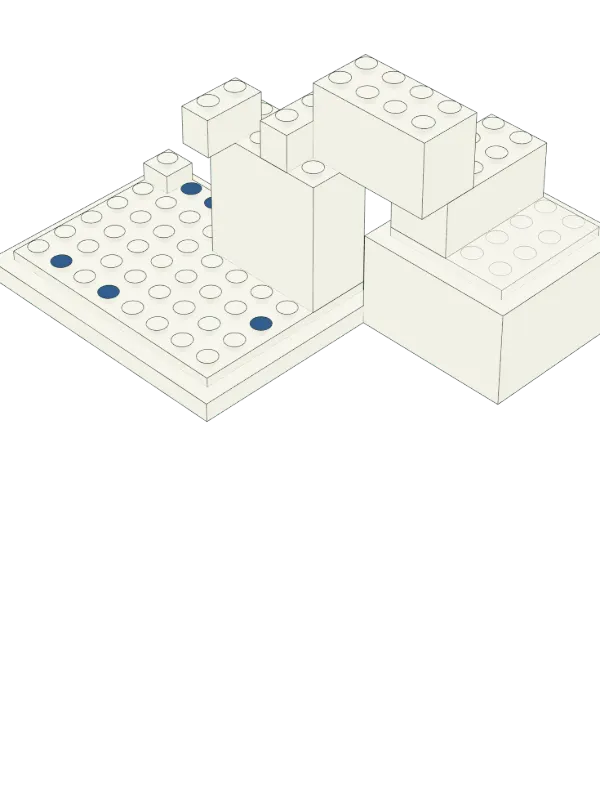
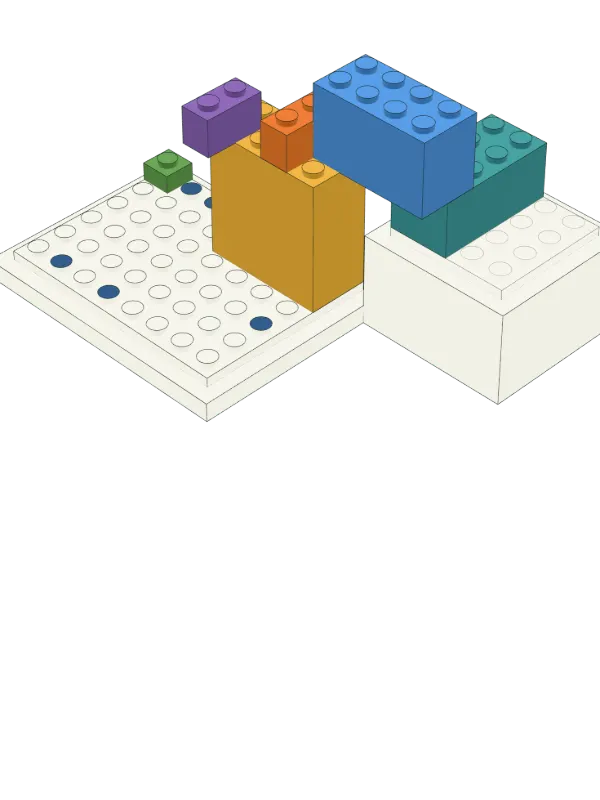
feat(atlas): the bricks in the round wear their own colours
Each of the six bricks takes a hue of its own, set on its row in
sheet2.mjs and carried by the model's parts: the cap and plain studs
in the hue, the flanks a step darker, the ringed studs and the red
location seat as before, the plates and ground still paper. The glTF
writer mints a cap and flank material per hued part. The badges take
their brick's hue as a ring, and fill with it when pinned; the pinned
line opens with a swatch; the legend's brick swatch shows three of
the hues. Sheet 2's drawing is byte-identical. Card re-photographed.

Claude-Session: https://claude.ai/code/session_01D1vGNxyKzYdyFrP83hW1Zr

Changed region(s): [[0.24, 0.0625, 0.93, 0.4062]]

diff --git a/www/atlas.lit-ui-router.dev/app/public/sheets/bricks.html b/www/atlas.lit-ui-router.dev/app/public/sheets/bricks.html
@@ -61,7 +61,7 @@
   --poster-color: transparent; --progress-bar-color: var(--accent); }
 .bk .bk-bar { border-bottom: 1.5px solid var(--ink); }
 .bk-bar .lg i.sw { display: block; width: 20px; height: 12px; border: 1.2px solid var(--ink); }
-.bk-bar .lg i.sw-brick { background: #F1F0E7; }
+.bk-bar .lg i.sw-brick { background: linear-gradient(90deg, #D8A33A, #D8A33A 33%, #5B8E4B 33%, #5B8E4B 66%, #4C86C6 66%); }
 .bk-bar .lg i.sw-stud { background: #2E5077; border-radius: 50%; width: 14px; }
 .bk-bar .lg i.sw-seat { background: #A63D2F; border-radius: 50%; width: 14px; }
 .bk-bar .lg i.sw-ghost { background: rgba(241, 240, 231, 0.45); border-style: dashed; }
@@ -69,15 +69,16 @@
 .bk-ctl .grp { display: inline-flex; gap: 6px; }
 .bk-ctl button[aria-pressed="true"] { background: var(--ink); color: var(--paper); }
 .bk-ctl input[type=range] { width: 150px; accent-color: var(--accent); }
-.bk-pin { width: 26px; height: 26px; border-radius: 50%; border: 1.5px solid var(--ink); background: var(--paper);
+.bk-pin { width: 26px; height: 26px; border-radius: 50%; border: 2px solid var(--hue, var(--ink)); background: var(--paper);
   color: var(--ink); font-family: var(--data); font-size: 12px; font-weight: 600; padding: 0; cursor: pointer;
   display: grid; place-items: center; }
-.bk-pin.on { background: var(--accent); border-color: var(--accent); color: var(--paper); }
+.bk-pin.on { background: var(--hue, var(--accent)); color: #F1F0E7; }
 .bk-pin:focus-visible { outline: 2px solid var(--accent); outline-offset: 2px; }
 .bk-read { border: 1.5px solid var(--ink); border-top: none; background: var(--paper-2); padding: 14px 22px 16px;
   min-height: 72px; color: var(--ink); }
 .bk-read h3 { font-family: var(--code); font-size: 16px; font-weight: 600; letter-spacing: 0.04em; line-height: 1.3;
   margin: 0; word-break: break-word; }
+.bk-read h3 i.sw { display: inline-block; width: 18px; height: 11px; margin-right: 8px; border: 1.2px solid var(--ink); vertical-align: baseline; }
 .bk-read h3 .n { font-family: var(--data); font-size: 11px; letter-spacing: 0.16em; color: var(--accent);
   margin-right: 10px; vertical-align: 0.12em; white-space: nowrap; }
 .bk-read .ledger { font-family: var(--data); font-size: 12px; letter-spacing: 0.08em; line-height: 1.5;
@@ -91,17 +92,17 @@
   <p class="sheet-sub"><a class="xref" data-sheet="2" href="/sheet/2">SHEET 2</a>'S FINISHED MODEL IN THE ROUND · 6 BRICKS · 2 PLATES · 2 LEVELS OF GROUND · ONE GLTF BINARY · THE SHEET'S OWN EXPLOSION AS ITS ONE CLIP, ASSEMBLE ⇄ EXPLODE · THE CAMERA TURNS TO THE SHEET'S THREE DRAWN CORNERS</p>
   <div class="bk-frame" id="bk-frame">
     <model-viewer id="bk-viewer" class="bk-view" src="/models/bricks.glb" camera-controls touch-action="pan-y" interaction-prompt="none" camera-orbit="45deg 54.736deg 88%" max-camera-orbit="Infinity 88deg auto" field-of-view="14deg" min-field-of-view="5deg" max-field-of-view="18deg" exposure="1" shadow-intensity="0" animation-name="assemble" alt="Sheet 2's finished LEGO model in three dimensions: a low slab of browser ground carries the @uirouter/core baseplate, its back rail of studs ringed in the accent colour and one red location seat; lit-ui-router stands on it as a tall two-by-four, the one-stud navigation location plugin on the location seat, lit-ui-router-mobx and lit-ui-router-effect on lit-ui-router's cap; a raised server shelf carries a translucent headless plate with ui-router-server on it, and lit-ui-router-ssr bridges from lit-ui-router's cap to ui-router-server's. The explode control lifts every brick to the height the sheet's exploded view draws it at.">
-      <button type="button" class="bk-pin" slot="hotspot-1" data-position="-0.5m 5.45m 0m" data-normal="0m 1m 0m" aria-pressed="false" aria-label="Brick 1, lit-ui-router">1</button>
-      <button type="button" class="bk-pin" slot="hotspot-2" data-position="-6m 1.85m -0.5m" data-normal="0m 1m 0m" aria-pressed="false" aria-label="Brick 2, ui-router-navigation-location-plugin">2</button>
-      <button type="button" class="bk-pin" slot="hotspot-3" data-position="0m 6.65m 0m" data-normal="0m 1m 0m" aria-pressed="false" aria-label="Brick 3, lit-ui-router-mobx">3</button>
-      <button type="button" class="bk-pin" slot="hotspot-4" data-position="3.5m 5.45m -3m" data-normal="0m 1m 0m" aria-pressed="false" aria-label="Brick 4, ui-router-server">4</button>
-      <button type="button" class="bk-pin" slot="hotspot-5" data-position="-2m 6.65m 1m" data-normal="0m 1m 0m" aria-pressed="false" aria-label="Brick 5, lit-ui-router-effect">5</button>
-      <button type="button" class="bk-pin" slot="hotspot-6" data-position="2.5m 7.85m -1m" data-normal="0m 1m 0m" aria-pressed="false" aria-label="Brick 6, lit-ui-router-ssr">6</button>
+      <button type="button" class="bk-pin" slot="hotspot-1" style="--hue:#D8A33A" data-position="-0.5m 5.45m 0m" data-normal="0m 1m 0m" aria-pressed="false" aria-label="Brick 1, lit-ui-router">1</button>
+      <button type="button" class="bk-pin" slot="hotspot-2" style="--hue:#5B8E4B" data-position="-6m 1.85m -0.5m" data-normal="0m 1m 0m" aria-pressed="false" aria-label="Brick 2, ui-router-navigation-location-plugin">2</button>
+      <button type="button" class="bk-pin" slot="hotspot-3" style="--hue:#D26E2C" data-position="0m 6.65m 0m" data-normal="0m 1m 0m" aria-pressed="false" aria-label="Brick 3, lit-ui-router-mobx">3</button>
+      <button type="button" class="bk-pin" slot="hotspot-4" style="--hue:#3E8A8B" data-position="3.5m 5.45m -3m" data-normal="0m 1m 0m" aria-pressed="false" aria-label="Brick 4, ui-router-server">4</button>
+      <button type="button" class="bk-pin" slot="hotspot-5" style="--hue:#7B5B9F" data-position="-2m 6.65m 1m" data-normal="0m 1m 0m" aria-pressed="false" aria-label="Brick 5, lit-ui-router-effect">5</button>
+      <button type="button" class="bk-pin" slot="hotspot-6" style="--hue:#4C86C6" data-position="2.5m 7.85m -1m" data-normal="0m 1m 0m" aria-pressed="false" aria-label="Brick 6, lit-ui-router-ssr">6</button>
     </model-viewer>
   </div>
   <div class="bk-bar">
     <div class="bk-legend">
-      <span class="lg"><i class="sw sw-brick"></i>a published package, as a quantized brick</span>
+      <span class="lg"><i class="sw sw-brick"></i>a published package, as a quantized brick in its own colour</span>
       <span class="lg"><i class="sw sw-stud"></i>a published extension point</span>
       <span class="lg"><i class="sw sw-seat"></i>the location seat</span>
       <span class="lg"><i class="sw sw-ghost"></i>the headless plate — an optional peer</span>
@@ -119,6 +120,6 @@
     </div>
   </div>
   <aside class="bk-read" id="bk-info" aria-live="polite"></aside>
-  <p class="bk-basis"><span><b class="k">BASIS</b>The model is <code>generator/<wbr>sheet2.mjs</code>'s own <code>MODEL</code>, the parts its finished-model band seats, written into one glTF binary by <code>generator/<wbr>brick-glb.mjs</code>: every ground, plate and brick a flat-shaded cuboid edged in ink, every stud a 24-sided cylinder on its part's cap, one node per part named by its id. One stud pitch is one unit. Each brick's lift in the <code>assemble</code> clip is the hover the sheet's exploded view draws it at, measured from its plate (brick 1 132, brick 2 116, brick 3 252, brick 4 88, brick 5 150, brick 6 160 plan units), so the explosion is the sheet's own. The numbered badges ride the bricks through the clip. Counted at origin/main @ 6d41d21e (2026-10-03); <code>@google/<wbr>model-viewer</code> 4.3.1 is fetched only when this page is entered, and the clip jumps to its end under <code>prefers-reduced-motion</code>.</span></p>
+  <p class="bk-basis"><span><b class="k">BASIS</b>The model is <code>generator/<wbr>sheet2.mjs</code>'s own <code>MODEL</code>, the parts its finished-model band seats, written into one glTF binary by <code>generator/<wbr>brick-glb.mjs</code>: every ground, plate and brick a flat-shaded cuboid edged in ink, every stud a 24-sided cylinder on its part's cap, one node per part named by its id; each brick wears its own colour, cap and plain studs in the hue and flanks a step darker, while the plates and ground stay paper. One stud pitch is one unit. Each brick's lift in the <code>assemble</code> clip is the hover the sheet's exploded view draws it at, measured from its plate (brick 1 132, brick 2 116, brick 3 252, brick 4 88, brick 5 150, brick 6 160 plan units), so the explosion is the sheet's own. The numbered badges ride the bricks through the clip. Counted at origin/main @ 6d41d21e (2026-10-03); <code>@google/<wbr>model-viewer</code> 4.3.1 is fetched only when this page is entered, and the clip jumps to its end under <code>prefers-reduced-motion</code>.</span></p>
 </section>
-<script type="application/json" id="bk-model">{"end":1.5,"bricks":[{"n":1,"name":"lit-ui-router","ver":"1.16.0","ledger":"21f · 2,605 sloc · 2×4 · 7 courses","seats":"the @uirouter/core plate","cap":[-0.5,5.45,0],"centre":[-0.5,3,0],"lift":3.3},{"n":2,"name":"ui-router-navigation-location-plugin","ver":"1.0.1","ledger":"2f · 141 sloc · 1×1 · 1 course","seats":"the @uirouter/core plate","cap":[-6,1.85,-0.5],"centre":[-6,1.2,-0.5],"lift":2.9},{"n":3,"name":"lit-ui-router-mobx","ver":"1.0.2","ledger":"5f · 176 sloc · 1×2 · 2 courses","seats":"brick 1, stud F","cap":[0,6.65,0],"centre":[0,5.7,0],"lift":6.3},{"n":4,"name":"ui-router-server","ver":"0.2.0","ledger":"9f · 1,211 sloc · 2×4 · 3 courses","seats":"the headless plate, on the server shelf","cap":[3.5,5.45,-3],"centre":[3.5,4.2,-3],"lift":2.2},{"n":5,"name":"lit-ui-router-effect","ver":"0.1.3","ledger":"5f · 213 sloc · 1×2 · 2 courses","seats":"brick 1, stud F","cap":[-2,6.65,1],"centre":[-2,5.7,1],"lift":3.75},{"n":6,"name":"lit-ui-router-ssr","ver":"0.1.1","ledger":"11f · 1,093 sloc · 2×4 · 4 courses","seats":"brick 1, stud G and brick 4, stud H","cap":[2.5,7.85,-1],"centre":[2.5,6.3,-1],"lift":4}]}</script>
+<script type="application/json" id="bk-model">{"end":1.5,"bricks":[{"n":1,"name":"lit-ui-router","ver":"1.16.0","hue":"#D8A33A","ledger":"21f · 2,605 sloc · 2×4 · 7 courses","seats":"the @uirouter/core plate","cap":[-0.5,5.45,0],"centre":[-0.5,3,0],"lift":3.3},{"n":2,"name":"ui-router-navigation-location-plugin","ver":"1.0.1","hue":"#5B8E4B","ledger":"2f · 141 sloc · 1×1 · 1 course","seats":"the @uirouter/core plate","cap":[-6,1.85,-0.5],"centre":[-6,1.2,-0.5],"lift":2.9},{"n":3,"name":"lit-ui-router-mobx","ver":"1.0.2","hue":"#D26E2C","ledger":"5f · 176 sloc · 1×2 · 2 courses","seats":"brick 1, stud F","cap":[0,6.65,0],"centre":[0,5.7,0],"lift":6.3},{"n":4,"name":"ui-router-server","ver":"0.2.0","hue":"#3E8A8B","ledger":"9f · 1,211 sloc · 2×4 · 3 courses","seats":"the headless plate, on the server shelf","cap":[3.5,5.45,-3],"centre":[3.5,4.2,-3],"lift":2.2},{"n":5,"name":"lit-ui-router-effect","ver":"0.1.3","hue":"#7B5B9F","ledger":"5f · 213 sloc · 1×2 · 2 courses","seats":"brick 1, stud F","cap":[-2,6.65,1],"centre":[-2,5.7,1],"lift":3.75},{"n":6,"name":"lit-ui-router-ssr","ver":"0.1.1","hue":"#4C86C6","ledger":"11f · 1,093 sloc · 2×4 · 4 courses","seats":"brick 1, stud G and brick 4, stud H","cap":[2.5,7.85,-1],"centre":[2.5,6.3,-1],"lift":4}]}</script>

diff --git a/www/atlas.lit-ui-router.dev/HISTORY.md b/www/atlas.lit-ui-router.dev/HISTORY.md
@@ -185,7 +185,7 @@ resolved →
 **Record notes**
 
 - 2026-10-04, REV F (census unmoved): a band under the exploded view draws the same parts seated — THE FINISHED MODEL. Three steps at the drawing's own corner (U 14): bricks 1 and 2 on the plate; bricks 3 and 5 on brick 1's cap; brick 6 bridging G to H with the second plate and brick 4. Then the whole from two more corners (U 22): the opposite one (turn 2), where brick 6 reads as a bridge and the free rail seats stay ringed, and the server side (turn 1), where the dashed plate and brick 4 stand in front with the bridge landing on H. The model stands on a landscape of two levels — a slab of browser ground one course deep under the client plate, and a server shelf under the headless plate, `GROUND + P2_UP × CRS` tall with `P2_UP = courses(1) − courses(4)`, because brick 6 seats on brick 1's cap AND brick 4's and the caps must meet; the plate's origin is the one plan point that puts stud H under the bridge (`SSR_REACH − B4_SEAT`). The band letters the two grounds (the shelf as a request runtime with no DOM, node engine read from ui-router-server's package.json, its adapters named) and that the dashed plate on it is the optional peer, reached by lazy import, while the ground is real; the key gains a ground row. The brick, plate and stud builders move to `brick-iso.mjs` as a kit at any pitch, with `seated()` (parts of kind ground, plate or brick, each standing `on` another; painter's order by axis separation, topologically sorted; covered plate studs not drawn; stud rings turn with the model) and `turnRect`/`turnStud` for the four iso corners; the exploded view draws through the same kit at U 40, unchanged but for the second plate’s studs, which take the plate’s dash as its faces always did. The sheet grows by the band (ART_H from 862 to the band's bottom + 56); the rev E clause is replaced by rev F's; the "Why bricks" paragraph says the exploded view seats nothing and the finished model is drawn seated; the index row reads "exploded, then seated". Thumb 2 re-photographed.
-- 2026-10-04, no rev clause: the finished model stands in the round as an app-only plate, `/bricks` (`atlas.bricks`, id `bricks`, SHEET 2 · 3D, REV A, THE BRICK ASSEMBLY, IN THE ROUND), filed after the plant. `sheet2.mjs` exports its `MODEL` as `BRICK_MODEL` and an `EXPLODE` map — each brick's exploded hover less its seated z0, both measured from its own plate: brick 1 132, brick 2 116, brick 3 252, brick 4 88, brick 5 150, brick 6 160 plan units — and the sheet's own drawing is byte-identical. `generator/brick-glb.mjs` writes the model as one dependency-free glTF binary, `app/public/models/bricks.glb` (6,816 triangles, about 400 KB): flat-shaded cuboids and 24-sided studs at one unit per stud pitch, ink edges as line primitives, paper caps over `--paper-2` flanks, accent caps on the ringed studs, the red location seat, the headless plate at alpha 0.45, one node per part named by its id, and one clip, `assemble`, 0 → 1.5 s, dropping each brick from seated + lift to its seat. Covered plate studs are kept in the model, unlike the sheet's seated band, because the explosion uncovers them and the location seat is one. `generator/brick-scene.mjs` writes the fragment and `src/generated/bricks-init.js`: a `<model-viewer>` (`@google/model-viewer` 4.3.1, loaded by the state's `viewer` resolve) with a numbered badge per brick riding the clip, three corner buttons at the iso elevation (the drawing's corner at 45°, the opposite corner at 225°, the server side at 135°), an EXPLODE ⇄ ASSEMBLE button and a scrub slider, and the pinned brick in `?focus`.
+- 2026-10-04, no rev clause: the finished model stands in the round as an app-only plate, `/bricks` (`atlas.bricks`, id `bricks`, SHEET 2 · 3D, REV A, THE BRICK ASSEMBLY, IN THE ROUND), filed after the plant. `sheet2.mjs` exports its `MODEL` as `BRICK_MODEL` and an `EXPLODE` map — each brick's exploded hover less its seated z0, both measured from its own plate: brick 1 132, brick 2 116, brick 3 252, brick 4 88, brick 5 150, brick 6 160 plan units — and the sheet's own drawing is byte-identical. `generator/brick-glb.mjs` writes the model as one dependency-free glTF binary, `app/public/models/bricks.glb` (6,816 triangles, about 400 KB): flat-shaded cuboids and 24-sided studs at one unit per stud pitch, ink edges as line primitives, each brick in its own hue (cap and plain studs in it, flanks a step darker; the hue sits on the brick's row in `sheet2.mjs` and rides the badges and the pinned line), paper caps over `--paper-2` flanks on the plates and ground, accent caps on the ringed studs, the red location seat, the headless plate at alpha 0.45, one node per part named by its id, and one clip, `assemble`, 0 → 1.5 s, dropping each brick from seated + lift to its seat. Covered plate studs are kept in the model, unlike the sheet's seated band, because the explosion uncovers them and the location seat is one. `generator/brick-scene.mjs` writes the fragment and `src/generated/bricks-init.js`: a `<model-viewer>` (`@google/model-viewer` 4.3.1, loaded by the state's `viewer` resolve) with a numbered badge per brick riding the clip, three corner buttons at the iso elevation (the drawing's corner at 45°, the opposite corner at 225°, the server side at 135°), an EXPLODE ⇄ ASSEMBLE button and a scrub slider, and the pinned brick in `?focus`.
 - 2026-10-03, geometry (census unmoved): brick 1 hovers at z 144, from 96. At 96 its underside sat 4 px above the plate's back edge on screen, so the seven-course tower read as standing on the ground behind the plate rather than over the rail; at 144 two courses of plate show under it. The plate drops 48 (OY 420 → 468) with brick 4, the second plate and every label under the tower, so bricks 1, 3, 5 and 6 and their lettering keep their screen positions; brick 2 keeps its position too and its fall onto the LOCATION SEAT lengthens to match. The spare-parts box and ART_H move with the plate, so the sheet grows 48 tall.
 - 2026-10-03, cabinet refresh at origin/main @ 6d41d21e: `lit-ui-router-ssr` re-letters 0.1.1 at 11 files / 1,093 sloc (was 0.1.0, 10 / 985), still a 2×4 of 4 courses. The TOTAL reads 6 bricks · 53 authored files · 5,439 sloc.
 - 2026-09-29, cabinet refresh at origin/main @ 63c0b823: `lit-ui-router-ssr` re-letters 0.1.0 at 10 files / 985 sloc (was 0.1.0-rc.3, 9 / 800), which quantizes to 7 studs: a 2×4 of 4 courses, where it stood a 2×3 of 3. The massing note's guard threw — it named 1 and 4 as the 2×4s and 6 as the 2×3 — and the note now reads “the three bricks that carry a renderer, a server and the prerender bridge between them are all 2×4s”, the count from the plate and the guard holding 1, 4 and 6; “A companion that needed to be a 2×4” reads “A plug that needed to be a 2×4”, since the bridge is a companion that is one. The taller brick crowded brick 6's label stack by 0.67 px, so the five lines rise 3 px. The TOTAL reads 6 bricks · 52 authored files · 5,331 sloc.
